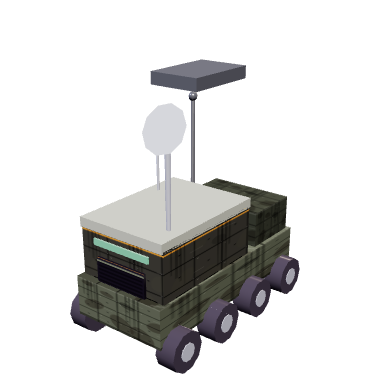
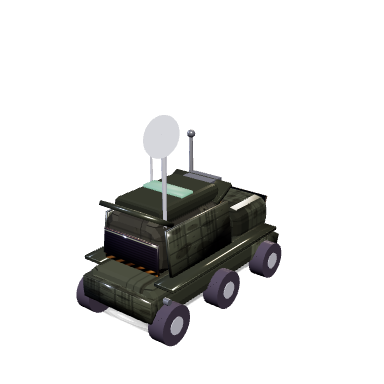
De-sandwich units: add chamfered-box helper (bx) with machined fillet edges; rebuild Mobile HQ as sloped 6x6 command vehicle (glacis, raked cab, set-back chamfered superstructure, angled sponsons); rebake HQ portrait

Changed region(s): [[0.1875, 0.1562, 0.7812, 0.9688]]

diff --git a/index.html b/index.html
@@ -1072,6 +1072,27 @@ function cyl(r1,r2,h,mat,x,y,z,rz){
   const m=new THREE.Mesh(CYG(r1,r2,h,10),mat);
   m.position.set(x,y,z);if(rz!==undefined)m.rotation.z=rz;m.castShadow=true;return m;
 }
+/* chamfered box: machined fillet edges that catch light, kills the flat-slab read */
+const _BXC={};
+function bxGeo(w,h,d){
+  const key=w.toFixed(2)+'_'+h.toFixed(2)+'_'+d.toFixed(2);
+  if(_BXC[key])return _BXC[key];
+  const c=Math.max(0.04,Math.min(w,h,d)*0.16);
+  const iw=Math.max(0.04,w-2*c), ih=Math.max(0.04,h-2*c), idp=Math.max(0.04,d-2*c);
+  const x=iw/2, y=ih/2, r=Math.min(c*1.4,Math.min(iw,ih)*0.34);
+  const s=new THREE.Shape();
+  s.moveTo(-x+r,-y); s.lineTo(x-r,-y); s.quadraticCurveTo(x,-y,x,-y+r);
+  s.lineTo(x,y-r); s.quadraticCurveTo(x,y,x-r,y);
+  s.lineTo(-x+r,y); s.quadraticCurveTo(-x,y,-x,y-r);
+  s.lineTo(-x,-y+r); s.quadraticCurveTo(-x,-y,-x+r,-y);
+  const g=new THREE.ExtrudeGeometry(s,{depth:idp,bevelEnabled:true,bevelThickness:c,bevelSize:c,bevelSegments:2,steps:1,curveSegments:3});
+  g.translate(0,0,-idp/2); g.computeVertexNormals();
+  return _BXC[key]=g;
+}
+function bx(w,h,d,mat,x,y,z,ry){
+  const m=new THREE.Mesh(bxGeo(w,h,d),mat);
+  m.position.set(x,y,z); if(ry)m.rotation.y=ry; m.castShadow=true; return m;
+}
 function lamp(w,h,d,mat,x,y,z){const m=box(w,h,d,mat,x,y,z);m.castShadow=false;return m;}
 function wheelRow(g,team,n,len,rad,y,xoff){
   const arr=[];
@@ -2472,19 +2493,28 @@ makeUnitMesh=function(type,team){
   const g=new THREE.Group();const tm=teamMat(team,1),td=teamMat(team,0.55);
   const HM=hMat(team,false),HD=hMat(team,true);
   if(type==='mobilehq'){
-    g.add(box(2.5,1.0,5.4,HM,0,1.15,0));                          /* chassis */
-    g.add(box(2.3,1.3,1.5,HD,0,1.9,-1.85));                       /* cab */
-    g.add(box(1.7,0.5,0.08,winMat(),0,2.15,-2.6));
-    g.add(box(2.4,1.6,3.2,wallMat(team),0,2.1,0.9));              /* command module */
-    g.add(box(1.4,1.1,0.1,doorMat(team),0,1.7,2.52));
-    g.add(box(2.4,0.24,3.3,td,0,2.98,0.9));
-    g.add(cyl(0.07,0.05,2.6,GUN,0.85,4.1,1.9));                   /* mast */
-    const dish=cyl(0.55,0.08,0.24,PIPE,0.85,5.3,1.9);dish.rotation.x=1.1;g.add(dish);
-    g.add(cyl(0.03,0.03,1.6,GUN,-0.9,3.7,0.2));                   /* whip aerial */
-    g.add(lamp(0.2,0.12,0.08,LAMPA,-0.75,1.7,-2.62));
-    g.add(lamp(0.2,0.12,0.08,LAMPA,0.75,1.7,-2.62));
-    g.add(lamp(1.6,0.16,0.06,LAMP,0,2.6,2.52));                   /* status strip */
-    g.userData.wheels=wheelRow(g,team,4,4.4,0.5,0.5,1.35);
+    /* 6x6 command vehicle: chamfered hull, sloped cab + set-back superstructure */
+    g.add(bx(2.5,1.1,5.6,HM,0,1.05,0));                             /* lower hull */
+    const glac=box(2.34,0.8,1.15,HD,0,0.86,-2.95);glac.rotation.x=-0.52;g.add(glac); /* sloped glacis */
+    g.add(box(2.5,0.7,0.4,HD,0,1.05,2.78));                         /* rear plate */
+    g.add(bx(2.24,1.15,1.7,HD,0,1.9,-1.95));                        /* cab body */
+    const scr=box(2.02,0.92,0.09,winMat(),0,2.02,-2.66);scr.rotation.x=-0.42;g.add(scr); /* raked windscreen */
+    g.add(bx(2.16,1.55,3.0,wallMat(team),0,2.4,0.75));             /* set-back superstructure */
+    g.add(box(1.9,0.9,0.1,doorMat(team),0,2.2,2.28));              /* rear hatch */
+    g.add(bx(1.72,0.52,2.5,td,0,3.22,0.75));                       /* raised roof */
+    const rf1=box(2.02,0.16,0.8,td,0,3.2,-0.55);rf1.rotation.x=0.5;g.add(rf1);  /* front roof slope */
+    const rf2=box(2.02,0.16,0.8,td,0,3.2,2.05);rf2.rotation.x=-0.5;g.add(rf2);  /* rear roof slope */
+    for(const s of[-1,1]){const sp=box(0.14,1.3,2.7,HD,1.12*s,2.36,0.75);sp.rotation.z=0.13*s;g.add(sp);} /* angled sponsons */
+    for(const s of[-1,1])g.add(box(0.66,0.12,5.0,td,1.28*s,1.62,0)); /* mudguards */
+    g.add(cyl(0.07,0.05,2.6,GUN,0.86,4.2,1.9));                    /* mast */
+    const dish=cyl(0.55,0.08,0.22,PIPE,0.86,5.4,1.9);dish.rotation.x=1.1;g.add(dish);
+    g.add(cyl(0.03,0.03,1.7,GUN,-0.9,3.9,0.4));                    /* whip aerial */
+    g.add(cyl(0.05,0.05,1.4,GUN,-0.7,1.5,-2.95,Math.PI/2));        /* bull bar */
+    g.add(lamp(0.2,0.16,0.1,LAMPA,-0.78,1.7,-3.02));               /* headlights */
+    g.add(lamp(0.2,0.16,0.1,LAMPA,0.78,1.7,-3.02));
+    g.add(lamp(1.4,0.12,0.5,LAMP,0,3.5,0.75));                     /* roof status strip */
+    g.add(cyl(0.09,0.09,0.7,DARK,1.06,1.2,2.4,Math.PI/2));         /* exhaust */
+    g.userData.wheels=wheelRow(g,team,3,4.7,0.56,0.56,1.34);
   }else if(type==='reconuav'||type==='strikeuav'){
     const S=type==='strikeuav'?1.75:1;
     const fus=cyl(0.16*S,0.2*S,1.9*S,HM,0,0.7,0);fus.rotation.x=Math.PI/2;g.add(fus);

diff --git a/dusk_index_fixed.html b/dusk_index_fixed.html
@@ -1061,6 +1061,27 @@ function cyl(r1,r2,h,mat,x,y,z,rz){
   const m=new THREE.Mesh(CYG(r1,r2,h,10),mat);
   m.position.set(x,y,z);if(rz!==undefined)m.rotation.z=rz;m.castShadow=true;return m;
 }
+/* chamfered box: machined fillet edges that catch light, kills the flat-slab read */
+const _BXC={};
+function bxGeo(w,h,d){
+  const key=w.toFixed(2)+'_'+h.toFixed(2)+'_'+d.toFixed(2);
+  if(_BXC[key])return _BXC[key];
+  const c=Math.max(0.04,Math.min(w,h,d)*0.16);
+  const iw=Math.max(0.04,w-2*c), ih=Math.max(0.04,h-2*c), idp=Math.max(0.04,d-2*c);
+  const x=iw/2, y=ih/2, r=Math.min(c*1.4,Math.min(iw,ih)*0.34);
+  const s=new THREE.Shape();
+  s.moveTo(-x+r,-y); s.lineTo(x-r,-y); s.quadraticCurveTo(x,-y,x,-y+r);
+  s.lineTo(x,y-r); s.quadraticCurveTo(x,y,x-r,y);
+  s.lineTo(-x+r,y); s.quadraticCurveTo(-x,y,-x,y-r);
+  s.lineTo(-x,-y+r); s.quadraticCurveTo(-x,-y,-x+r,-y);
+  const g=new THREE.ExtrudeGeometry(s,{depth:idp,bevelEnabled:true,bevelThickness:c,bevelSize:c,bevelSegments:2,steps:1,curveSegments:3});
+  g.translate(0,0,-idp/2); g.computeVertexNormals();
+  return _BXC[key]=g;
+}
+function bx(w,h,d,mat,x,y,z,ry){
+  const m=new THREE.Mesh(bxGeo(w,h,d),mat);
+  m.position.set(x,y,z); if(ry)m.rotation.y=ry; m.castShadow=true; return m;
+}
 function lamp(w,h,d,mat,x,y,z){const m=box(w,h,d,mat,x,y,z);m.castShadow=false;return m;}
 function wheelRow(g,team,n,len,rad,y,xoff){
   const arr=[];